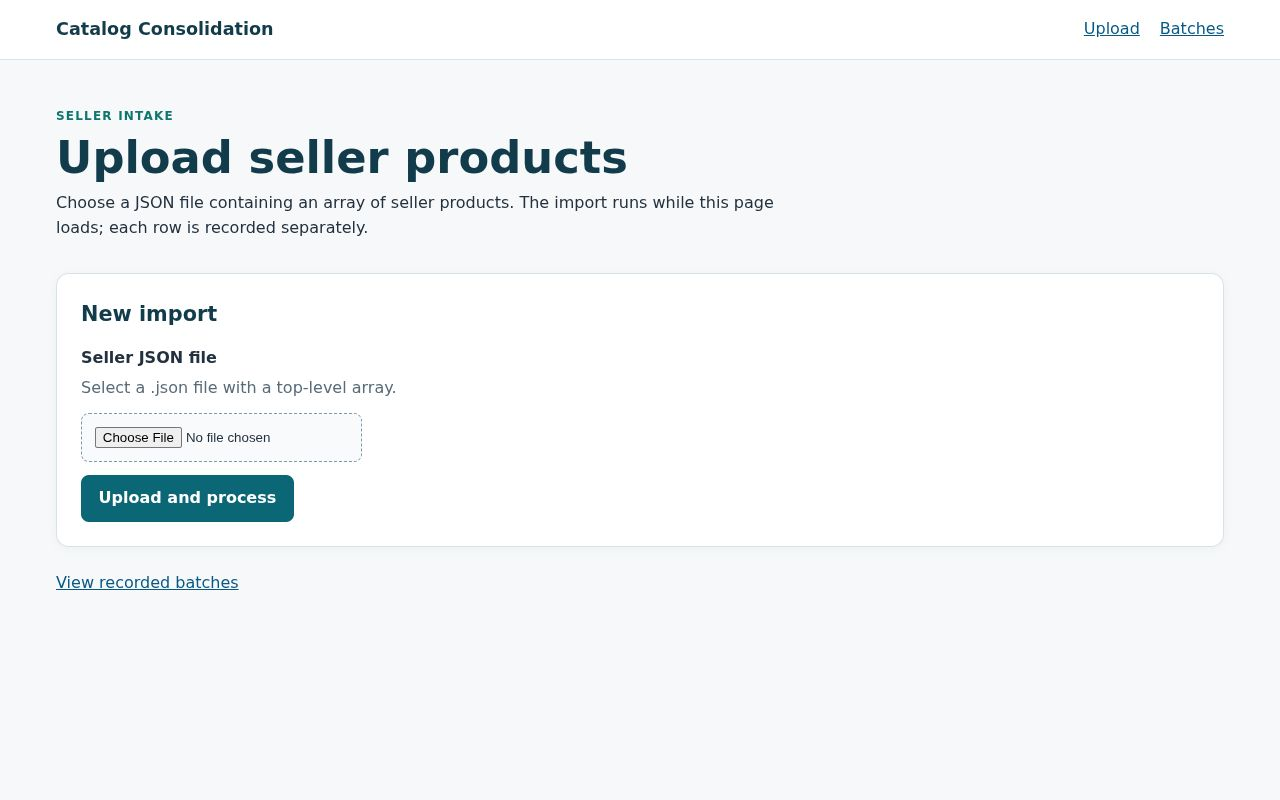
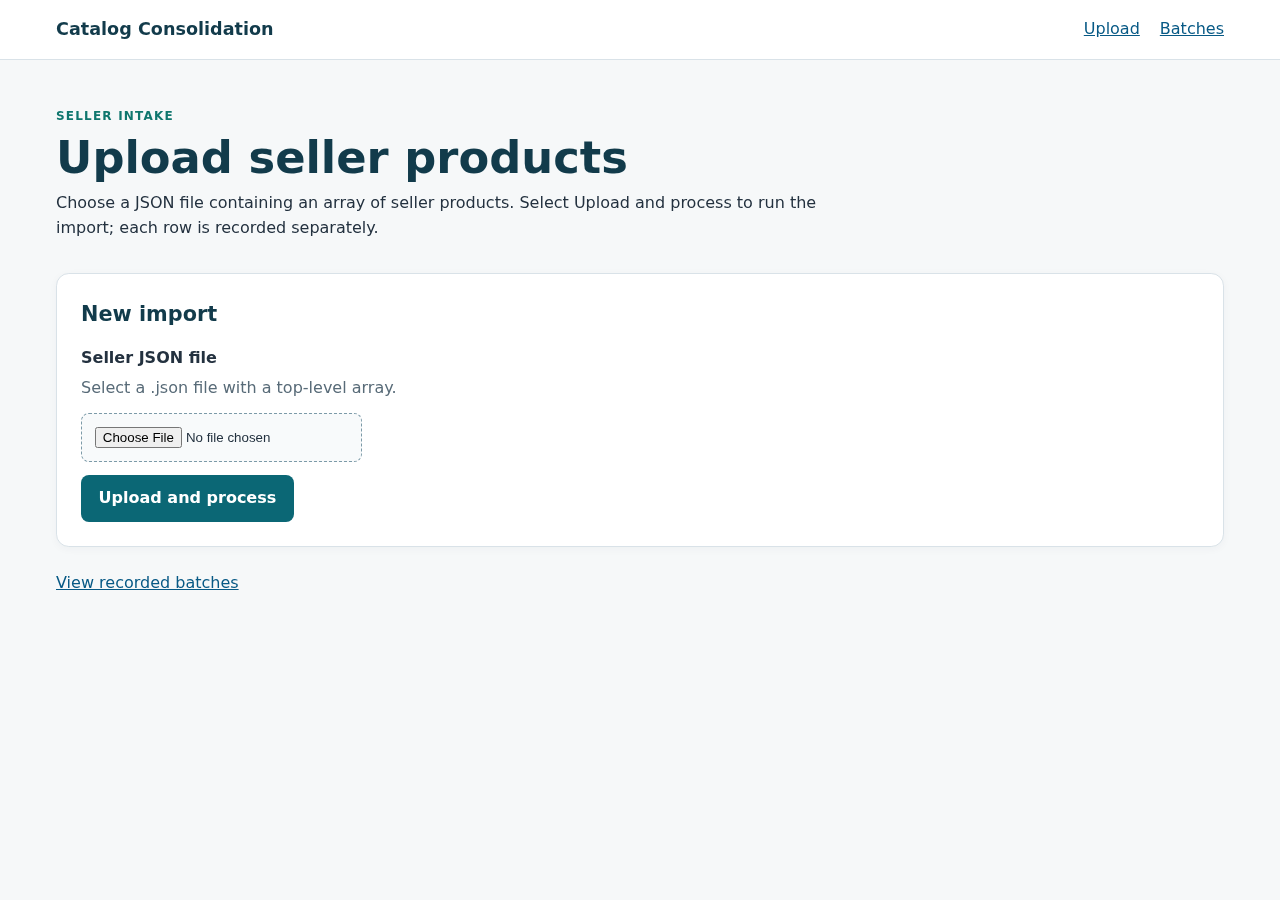
Verify rendered import results and clarify upload copy

diff --git a/spec/concepts/intake/controllers/imports_controller_spec.rb b/spec/concepts/intake/controllers/imports_controller_spec.rb
@@ -74,8 +74,23 @@ RSpec.describe Intake::Controllers::ImportsController, type: :request do
 
       get batch_path(batch)
       expect(response).to have_http_status(:ok)
-      expect(response.body).to include("Input rows", "Linked", "Failed", "Pending review")
-      expect(response.body).to include("#{existing.id}", "Name is required", "Review case ID")
+      page = Nokogiri::HTML(response.body)
+      totals = page.css(".summary-grid > div").to_h do |item|
+        [ item.at_css("dt").text.strip, item.at_css("dd").text.strip.to_i ]
+      end
+      expect(totals).to eq({ "Input rows" => 3, "Linked" => 1, "Created" => 0,
+        "Already imported" => 0, "Pending review" => 1, "Failed" => 1 })
+
+      rows = page.css(".results-section tbody tr")
+      expect(rows.map { |item| item.at_css("th[scope='row']").text.strip }).to eq(%w[1 2 3])
+      cells = rows.map { |item| item.css("td").map { |cell| cell.text.strip } }
+      expect(cells[0]).to include(include(source_row["SellerName"], "ID: 001"), "Linked",
+        existing.id.to_s, "—", include("Linked to exact catalog product #{existing.id}"))
+      expect(cells[1]).to include(include(source_row["SellerName"], "ID: bad"), "Failed",
+        "—", "—", include("Name is required"))
+      review_case_id = batch.row_results.find_by!(source_position: 3).review_case_id
+      expect(cells[2]).to include(include(source_row["SellerName"], "ID: pending"), "Pending review",
+        "—", review_case_id.to_s, include("Pending review: incomplete metadata"))
       expect(response.body).to include("O&#39;Reilly &lt;script&gt;alert(1)&lt;/script&gt;")
       expect(response.body).not_to include("<script>alert(1)</script>")
       expect(response.body).to include("View source row")
@@ -107,6 +122,8 @@ RSpec.describe Intake::Controllers::ImportsController, type: :request do
 
       expect(response).to have_http_status(:ok)
       expect(response.body).to include("This valid JSON array contained no rows")
+      totals = Nokogiri::HTML(response.body).css(".summary-grid dd").map { |item| item.text.strip.to_i }
+      expect(totals).to eq([ 0, 0, 0, 0, 0, 0 ])
     end
   end
 end

diff --git a/docs/tasks/09-web-upload-and-results.md b/docs/tasks/09-web-upload-and-results.md
@@ -25,14 +25,15 @@ Let a local user upload the seller JSON and inspect batch summaries and row outc
 
 ## Current checkpoint
 
-- Completed: Intake upload, batch history, and result routes/views; synchronous importer integration; request journeys; local run instructions; upload/result screenshots; generated route-helper RBIs; final full Docker CI passed after the empty-history assertion.
-- Remaining: independent correctness and test reviews, any review fixes, final verified merge.
-- Next action: hand the stable candidate to the orchestrator for independent reviews.
+- Completed: Intake upload, batch history, and result routes/views; synchronous importer integration; request journeys; local run instructions; upload/result screenshots; generated route-helper RBIs. First-round T09-TEST-01 request assertions and submit-time copy have been corrected; focused examples and full Docker CI pass.
+- Remaining: independent reassessment of the review fix, final verified merge.
+- Next action: hand the review-fix tree to the orchestrator for both reviewers' reassessment.
 
 ## Problems
 
 - **T09-P01 — 2026-09-30:** The first full CI found missing generated route-helper RBIs and a Catalog concept-view fixture that replaced application routes while still rendering the new global navigation. Regenerated DSL RBIs and made that narrow fixture render without the application layout; subsequent full CI passed 155 examples. The fixture still verifies concept-owned view lookup.
 - **T09-P02 — 2026-09-30:** The in-app browser file-chooser operation stalled during manual upload inspection and the browser surface became unavailable after interruption. Request specs cover real multipart uploads. The upload screenshot was captured before interruption; a local development batch was created through the same importer service and its result page was captured with installed headless Chromium. No application behavior depends on that browser session.
+- **T09-P03 — 2026-09-30:** First-round test review T09-TEST-01 found that the mixed-results request spec checked only page-wide substrings, so a swapped row or incorrect count could pass. The spec now parses the rendered summary and row table to assert exact totals, positions, seller keys, outcomes, product/case IDs, and row-specific reasons. It also checks six zero totals for an empty array. Focused examples and full CI pass; reviewer reassessment is pending.
 
 ## Decisions
 
@@ -44,7 +45,13 @@ Let a local user upload the seller JSON and inspect batch summaries and row outc
 - **2026-09-30 — Focused request journeys:** `docker compose run --rm web bundle exec rspec spec/concepts/intake/controllers/imports_controller_spec.rb` ran 7 examples, 0 failures before the empty-history assertion was added. The isolated process exited 2 because whole-application SimpleCov measured 76.13% lines and 52.14% branches when only this file ran. The full suite below exceeds both floors. The specs cover discoverable form/label/required input, successful multipart upload, missing/malformed/non-array files, mixed linked/failed/pending rows with escaped HTML-like and quoted seller text, reupload preserving the first audit, and a valid empty array. The subsequent added example covers empty batch history.
 - **2026-09-30 — First full gate:** `docker compose run --rm web bin/ci` failed on Sorbet and Rails RBI freshness for new route helpers, plus one Catalog view-lookup fixture failure caused by the global layout expecting the new routes. All other checks passed; 155 RSpec examples ran with 1 failure and Ruby coverage was 810/813 lines (99.63%) and 150/163 branches (92.02%). Those defects were fixed before the next run.
 - **2026-09-30 — Final full gate on the T09 working tree:** `docker compose run --rm web bin/ci` passed Ruby/ERB/JS lint, Sorbet and concept sigils, gem/Rails RBI freshness, gem/importmap/Brakeman audits, database preparation/consistency, seeds, 156 RSpec examples (0 failures), and 1 Vitest test (0 failures). Ruby coverage was 810/813 lines (99.63%) and 150/163 branches (92.02%); JavaScript coverage was 100% statements/lines/functions (no application branches). `git diff --check` passed. No Docker browser runtime was needed because the form journeys are request specs.
-- **2026-09-30 — Visual inspection:** [Upload form screenshot](screenshots/t09-upload.png) at a 1280 px desktop viewport and [batch results screenshot](screenshots/t09-results.png) at 1280 px show the labeled file input, global navigation, summary cards, ordered row table, review-case ID as text, and created/pending/failed outcomes. The results screenshot uses a three-row local development batch (one created, one pending, one failed), seeded through `ImportProcessor.call` only for visual inspection; it is not a test fixture. The upload page was inspected in the in-app browser; the results page screenshot was captured with installed headless Chromium after that browser surface became unavailable.
+- **2026-09-30 — Review-fix focused run on candidate `4c89f0d` plus working tree:** `docker compose run --rm web bundle exec rspec spec/concepts/intake/controllers/imports_controller_spec.rb` ran 8 examples, 0 failures. The isolated process exited 2 because whole-application SimpleCov measured 76.13% lines and 52.14% branches with only this file loaded; the full gate below must verify the coverage floors. The upload screenshot was recaptured with installed headless Chromium after the wording correction and visually inspected.
+- **2026-09-30 — Review-fix full gate on candidate `4c89f0d` plus working tree:** `docker compose run --rm web bin/ci` passed Ruby/ERB/JS lint, Sorbet and concept sigils, gem/Rails RBI freshness, gem/importmap/Brakeman audits, database preparation/consistency, seeds, 156 RSpec examples (0 failures), and 1 Vitest test (0 failures). Ruby coverage was 810/813 lines (99.63%) and 150/163 branches (92.02%); JavaScript coverage was 100% statements/lines/functions (no application branches). `git diff --check` passed.
+- **2026-09-30 — Visual inspection:** [Upload form screenshot](screenshots/t09-upload.png) at a 1280 px desktop viewport and [batch results screenshot](screenshots/t09-results.png) at 1280 px show the labeled file input, global navigation, summary cards, ordered row table, review-case ID as text, and created/pending/failed outcomes. The results screenshot uses a three-row local development batch (one created, one pending, one failed), seeded through `ImportProcessor.call` only for visual inspection; it is not a test fixture. The upload page was first inspected in the in-app browser; both current screenshots were captured with installed headless Chromium after that browser surface became unavailable.
+
+### Review rounds
+
+- **Round 1, candidate `4c89f0d` (2026-09-30):** correctness reviewer approved the code and visual behavior, and suggested replacing upload copy that incorrectly said the import runs while the page loads. Test reviewer raised **T09-TEST-01 (P2)**: the mixed-results request spec asserted only page-wide substrings and could miss misplaced row data or unreconciled visible totals. The review-fix working tree uses parsed summary and table assertions for exact totals, row order, keys, outcomes, IDs, and reasons, plus empty-array zero totals. The upload copy now describes submit-time processing and its screenshot was recaptured. Focused specs and full Docker CI pass; both reviewers' final verdicts are pending.
 
 ## Handoff
 

diff --git a/docs/tasks/README.md b/docs/tasks/README.md
@@ -37,12 +37,13 @@ Milestones: T08 verifies importer/rerun services; T10 makes upload, results, and
 The user can invoke the [orchestrator instructions and starter prompt](orchestrator.md#starter-prompt) to run the remaining tasks with fresh implementers, two independent reviewers per task, automatic merges after passing gates, and a pause for final QA. Merely reading or editing those instructions does not start the run. Individual task requests can still use the manual workflow below.
 
 - Run state: `running`.
-- Current task/stage: T09 / independent reviews.
-- Working directory, branch, candidate revision, and PR: `/home/daniel/.codex/worktrees/137d/VTEX`, `codex/t09-web-upload-and-results` from integrated main `c2b5f25`; first T09 candidate commit pending, no PR yet. T08 PR #18 merged at `dd55280` after reviewed head `a22665f`.
-- Active agent assignments and test-runner owner: T09 implementer finished; two fresh independent reviewers pending dispatch, with test reviewer owning shared Docker checks.
+- Current task/stage: T09 / independent reassessment of review fix and screenshot.
+- Working directory, branch, candidate revision, and PR: `/home/daniel/.codex/worktrees/137d/VTEX`, `codex/t09-web-upload-and-results` from integrated main `c2b5f25`; first candidate `4c89f0d`, review fix in progress, no PR yet. T08 PR #18 merged at `dd55280` after reviewed head `a22665f`.
+- Active agent assignments and test-runner owner: T09 implementer finished; both reviewers reassessing committed test/copy/screenshot fixes, with test reviewer owning shared Docker checks.
+- Unresolved orchestration findings or decisions: `T09-TEST-01` has a proposed fix awaiting reviewer verdicts; correctness reviewer approved initial candidate. No user decision needed.
 - Unresolved orchestration findings or decisions: none. T08 findings were resolved and approved before merge.
 - Last completed orchestration milestone: T08 verified and merged at `dd55280`: supplied-file reruns, pending/resolved fixture replay, exact-key concurrency, and failure isolation passed. Real reviewer-command journeys remain for T11–T14.
-- Next action: commit stable T09 candidate and obtain independent correctness/test reviews, including visual and request-journey checks.
+- Next action: obtain both independent re-reviews of the committed T09 fix revision before PR.
 
 During a run, update this checkpoint at stage transitions and before interruption. Keep task statuses in the table above and detailed findings/evidence in the owning briefs. See [records and recovery](orchestrator.md#records-and-recovery) for resume rules.
 
